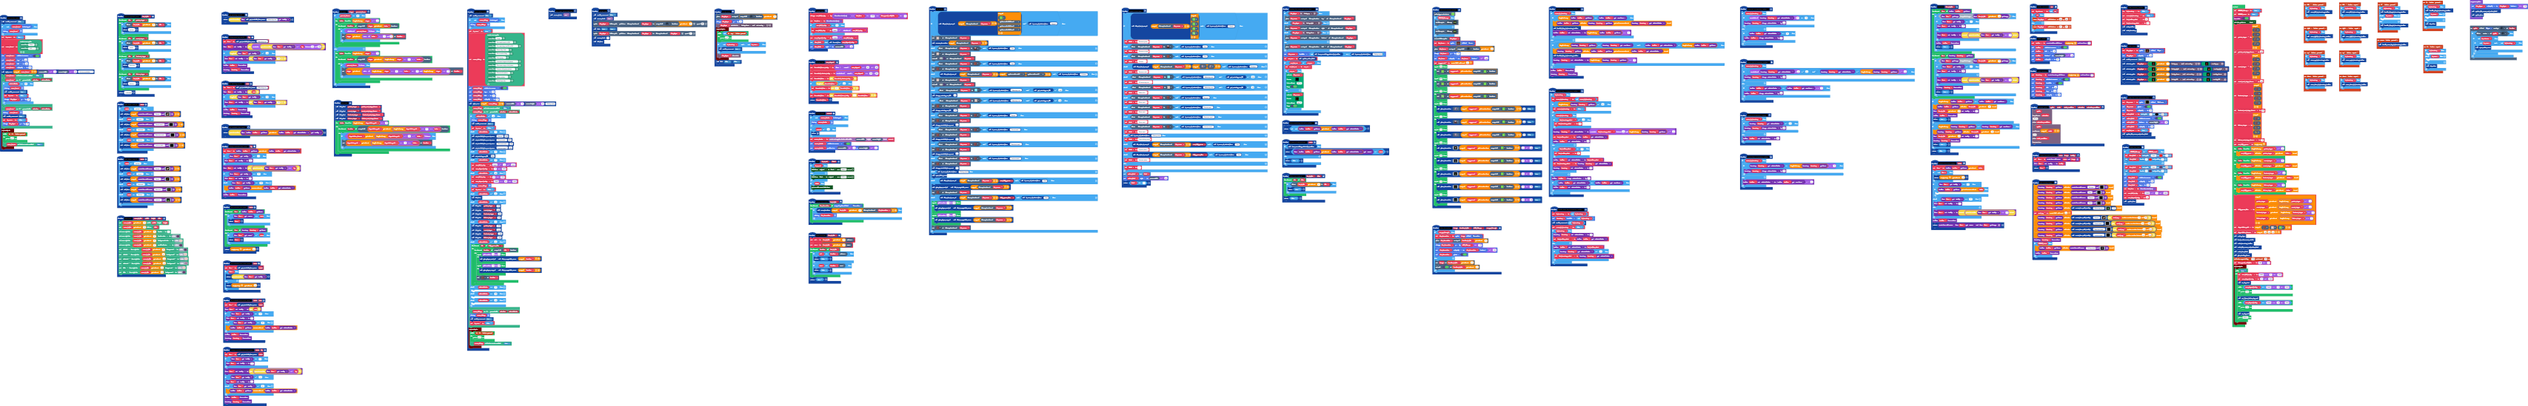
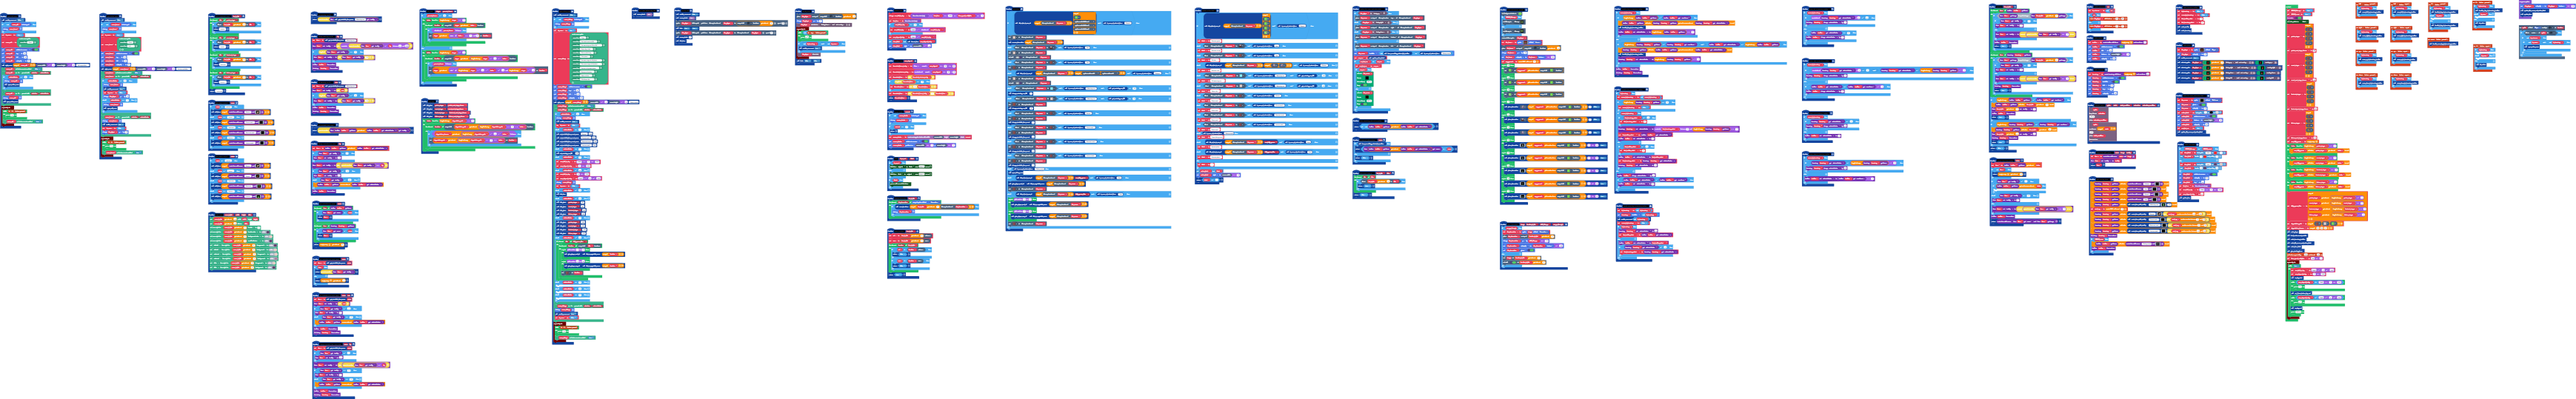
Make a sell menu pop up

Changed region(s): [[0.0, 0.0, 1.0, 1.0], [0.4347, 0.564, 0.4657, 0.5937]]

diff --git a/main.ts b/main.ts
@@ -260,7 +260,7 @@ function open_action_menu () {
     menu_house.top = 4
     menu_house.left = 4
     menu_house.z = 20
-    style_menu([menu_house], scene.screenWidth() - 8, scene.screenHeight() - 32, "Actions available:")
+    style_menu([menu_house], scene.screenWidth() - 8, scene.screenHeight() - 32, "Actions available")
     menu_house.setButtonEventsEnabled(false)
     menu_house.onButtonPressed(controller.A, function (selection, selectedIndex) {
         if (selectedIndex == 0) {
@@ -268,6 +268,9 @@ function open_action_menu () {
             enable_movement(true)
             in_menu = false
             the_player.y += 16
+        } else if (selectedIndex == 1) {
+            menu_house.destroy()
+            open_sell_menu()
         }
     })
     menu_house.onButtonPressed(controller.B, function (selection, selectedIndex) {
@@ -307,6 +310,38 @@ function give_player_seed_of (name: string) {
     } else if (name == "lettuce") {
         add_item([Inventory.create_item("Lettuce seed", assets.image`lettuce_seed`)])
     }
+}
+function open_sell_menu () {
+    enable_movement(false)
+    if (!(spriteutils.isDestroyed(menu_sell))) {
+        menu_house.destroy()
+    }
+    in_menu = true
+    menu_sell = miniMenu.createMenu(
+    miniMenu.createMenuItem("Close")
+    )
+    menu_sell.setFlag(SpriteFlag.RelativeToCamera, true)
+    menu_sell.top = 4
+    menu_sell.left = 4
+    menu_sell.z = 20
+    style_menu([menu_sell], scene.screenWidth() - 8, scene.screenHeight() - 32, "Sell vegetables")
+    menu_sell.setButtonEventsEnabled(false)
+    menu_sell.onButtonPressed(controller.A, function (selection, selectedIndex) {
+        if (selectedIndex == 0) {
+            menu_sell.destroy()
+            open_action_menu()
+        }
+    })
+    menu_sell.onButtonPressed(controller.B, function (selection, selectedIndex) {
+        menu_sell.destroy()
+        open_action_menu()
+    })
+    timer.background(function () {
+        while (controller.A.isPressed()) {
+            pause(0)
+        }
+        menu_sell.setButtonEventsEnabled(true)
+    })
 }
 function change_stackable_item_count_name (name: string, by: number) {
     item = get_stackable_item_name(name)
@@ -939,6 +974,7 @@ let the_decoration: Sprite = null
 let seed_rng: FastRandomBlocks = null
 let rng_ground: FastRandomBlocks = null
 let the_house: Sprite = null
+let menu_sell: miniMenu.MenuSprite = null
 let menu_house: miniMenu.MenuSprite = null
 let inventory: Inventory.Inventory = null
 let action_label: TextSprite = null
